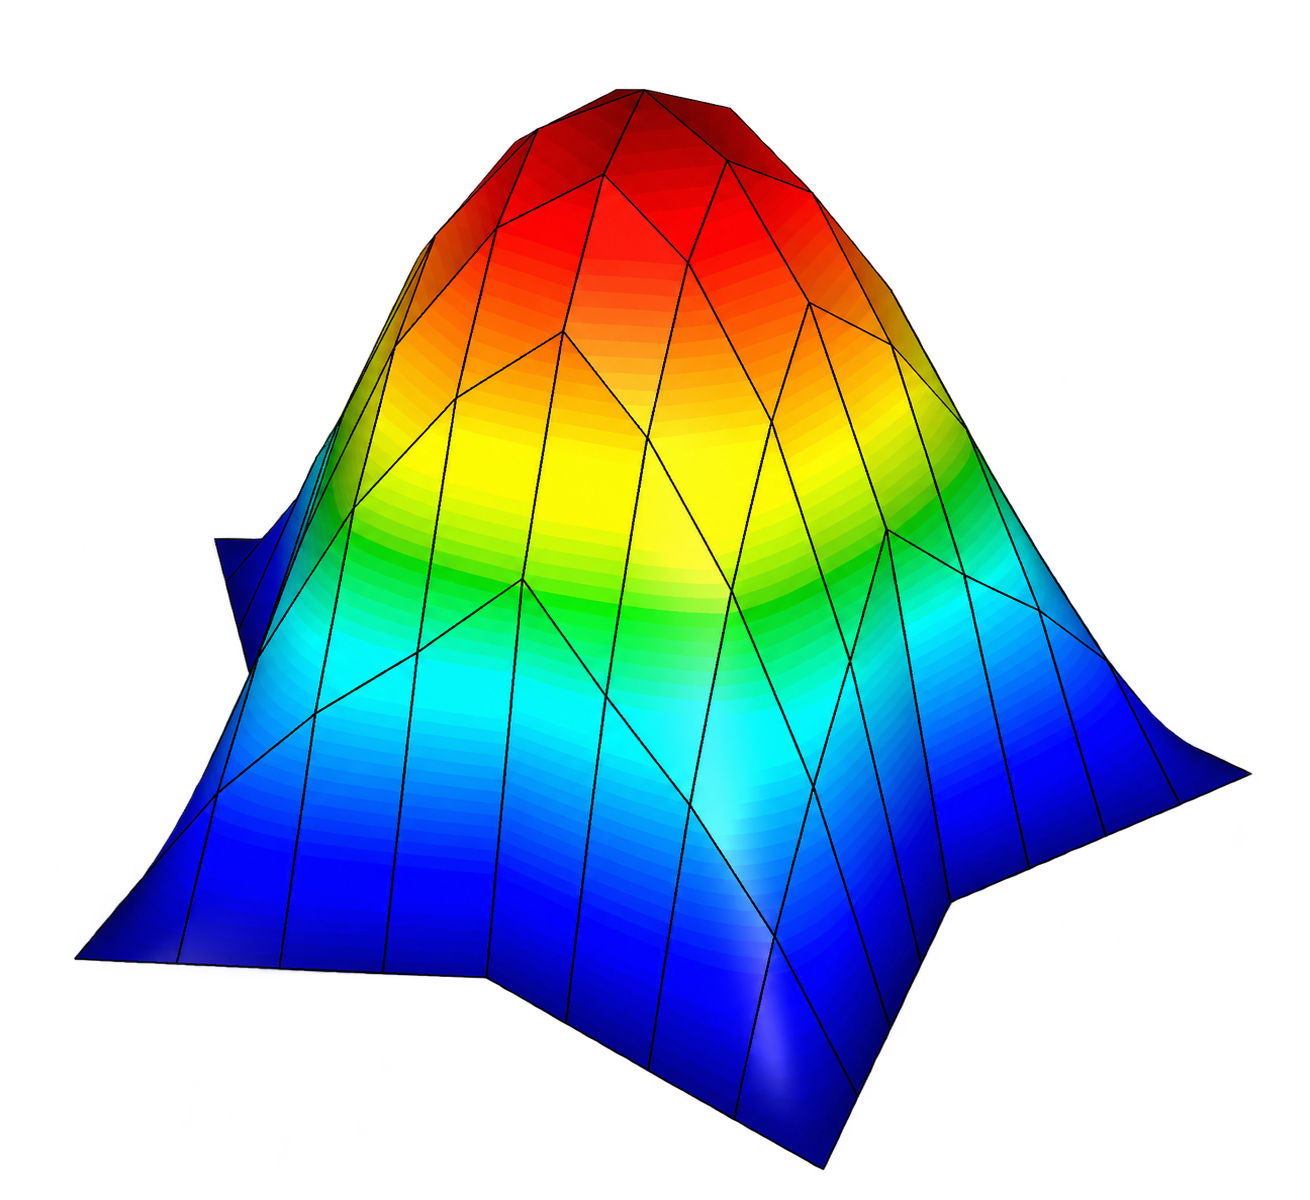
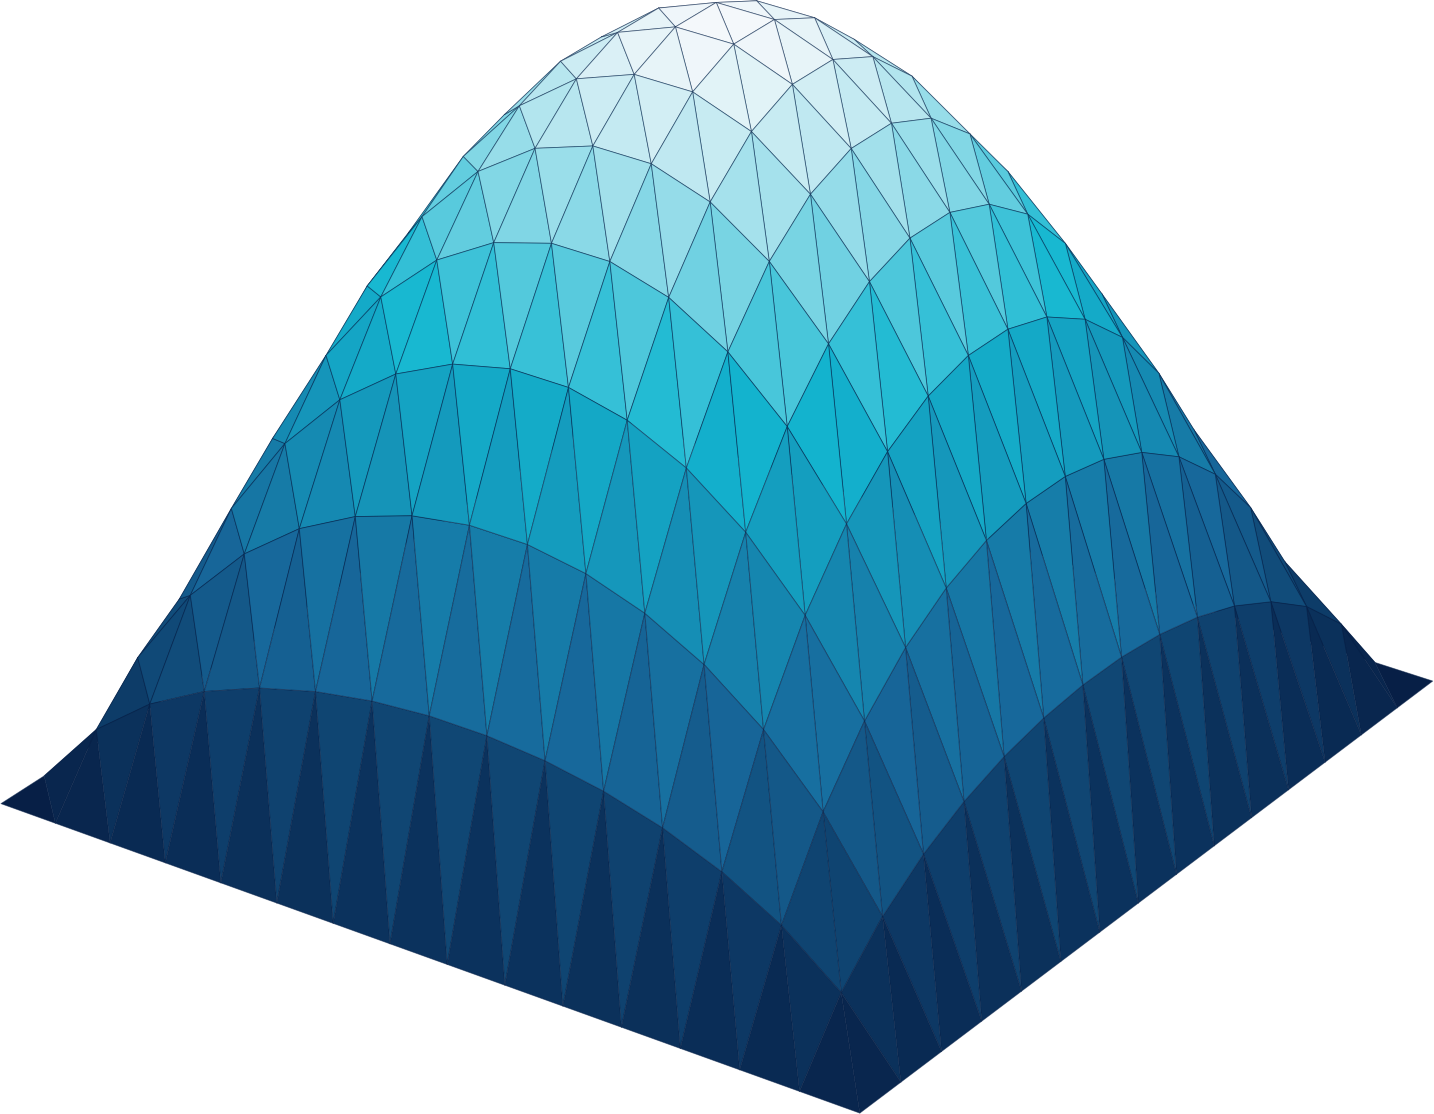
Restore the Poisson tutorial and render its solution in the Rodin palette

diff --git a/doc/rodin-navigation.js b/doc/rodin-navigation.js
@@ -190,8 +190,6 @@
     const bounds = content.getBoundingClientRect();
     const gutter = side === 'left' ? bounds.left : document.documentElement.clientWidth - bounds.right;
     const width = Math.max(0, Math.min(13 * unit, gutter - 2 * unit));
-    const homeWidth = Math.max(0, Math.min(13 * unit, bounds.left - 2 * unit)) + unit;
-    document.documentElement.style.setProperty('--rodin-home-width', homeWidth + 'px');
     navigation.style.width = width + 'px';
     navigation.style.left = (side === 'left' ? bounds.left - width - unit : bounds.right + unit) + 'px';
     navigation.dataset.side = side;

diff --git a/doc/rodin-theme.js b/doc/rodin-theme.js
@@ -59,6 +59,8 @@
   function initializeControl() {
     const brand = document.querySelector('#m-navbar-brand');
     if (!brand) return false;
+    brand.setAttribute('aria-label', 'Rodin home');
+    brand.setAttribute('title', 'Rodin home');
     if (document.querySelector('#rodin-theme-trigger')) return true;
     if (!brand.querySelector('.rodin-home-icon')) {
       const home = document.createElementNS('http://www.w3.org/2000/svg', 'svg');

diff --git a/doc/rodin-theme.css b/doc/rodin-theme.css
@@ -806,11 +806,6 @@ main article .m-col-l-10:has(> .rodin-main-brand) > h1 {
   .rodin-page-nav.rodin-page-nav-fit[data-side="right"] { padding-left: .75rem; }
 }
 
-@media screen and (min-width: 1200px) {
-  #navigation #m-navbar-brand {
-    width: var(--rodin-home-width, auto);
-  }
-}
 
 @media(max-width:359px) {
   #navigation #m-navbar-brand { margin-right: .25rem; padding-right: .25rem; }

diff --git a/examples/PDEs/Poisson.cpp b/examples/PDEs/Poisson.cpp
@@ -4,52 +4,35 @@
  *       (See accompanying file LICENSE or copy at
  *          https://www.boost.org/LICENSE_1_0.txt)
  */
-#include "Rodin/IO/ForwardDecls.h"
-#include "Rodin/IO/XDMF.h"
 #include <Rodin/Types.h>
 #include <Rodin/Solver.h>
 #include <Rodin/Geometry.h>
 #include <Rodin/Assembly.h>
 #include <Rodin/Variational.h>
-#include <type_traits>
+#include <Rodin/IO/XDMF.h>
 
 using namespace Rodin;
 using namespace Rodin::Solver;
 using namespace Rodin::Geometry;
 using namespace Rodin::Variational;
 
-int main(int, char**)
+int main()
 {
-  Mesh mesh;
-  mesh.load(
-    "../resources/examples/Heart/CoronaryArtery/MergedFSI.mesh", IO::FileFormat::MEDIT);
-  // mesh = mesh.UniformGrid(Polytope::Type::Triangle, { 16, 16 });
-  mesh.getConnectivity().compute(2, 3); // Compute boundary
-  mesh.getConnectivity().compute(2, 1); // Compute boundary
-  mesh.getConnectivity().compute(1, 0); // Compute boundary
+  Mesh mesh = Mesh().UniformGrid(Polytope::Type::Triangle, {16, 16});
+  mesh.scale(1.0 / 15.0);
+  mesh.getConnectivity().compute(1, 2);
 
-  H1 vh(std::integral_constant<size_t, 2>{}, mesh);
-
+  P1 vh(mesh);
   TrialFunction u(vh);
-  TestFunction  v(vh);
-
+  TestFunction v(vh);
   RealFunction f = 1;
 
-  // Apply Dirichlet conditions on the entire boundary.
   Problem poisson(u, v);
-  poisson = Integral(Grad(u), Grad(v))
-          // - Integral(f, v)
-    + DirichletBC(u, f).on(17);
+  poisson = Integral(Grad(u), Grad(v)) - Integral(f, v) + DirichletBC(u, Zero());
   CG(poisson).solve();
 
-  mesh.save("Poisson.mesh", IO::FileFormat::MEDIT);
-  u.getSolution().save("Poisson.gf", IO::FileFormat::MFEM);
-
-  // Save solution
   IO::XDMF xdmf("Poisson");
   xdmf.grid().setMesh(mesh).add("u", u.getSolution());
   xdmf.write().flush();
-  xdmf.close();
-
   return 0;
 }

diff --git a/README.md b/README.md
@@ -216,6 +216,7 @@ which can be quickly implemented via the following lines of code:
 #include <Rodin/Geometry.h>
 #include <Rodin/Assembly.h>
 #include <Rodin/Variational.h>
+#include <Rodin/IO/XDMF.h>
 
 using namespace Rodin;
 using namespace Rodin::Solver;
@@ -226,6 +227,7 @@ int main(int, char**)
 {
   Mesh mesh;
   mesh = mesh.UniformGrid(Polytope::Type::Triangle, { 16, 16 });
+  mesh.scale(1.0 / 15.0);
   mesh.getConnectivity().compute(1, 2); // Compute boundary
 
   P1 vh(mesh);
@@ -242,9 +244,10 @@ int main(int, char**)
           + DirichletBC(u, Zero());
   CG(poisson).solve();
 
-  // Save solution
-  u.getSolution().save("Poisson.gf");
-  mesh.save("Poisson.mesh");
+  // Export the solution for visualization.
+  IO::XDMF xdmf("Poisson");
+  xdmf.grid().setMesh(mesh).add("u", u.getSolution());
+  xdmf.write().flush();
 
   return 0;
 }
